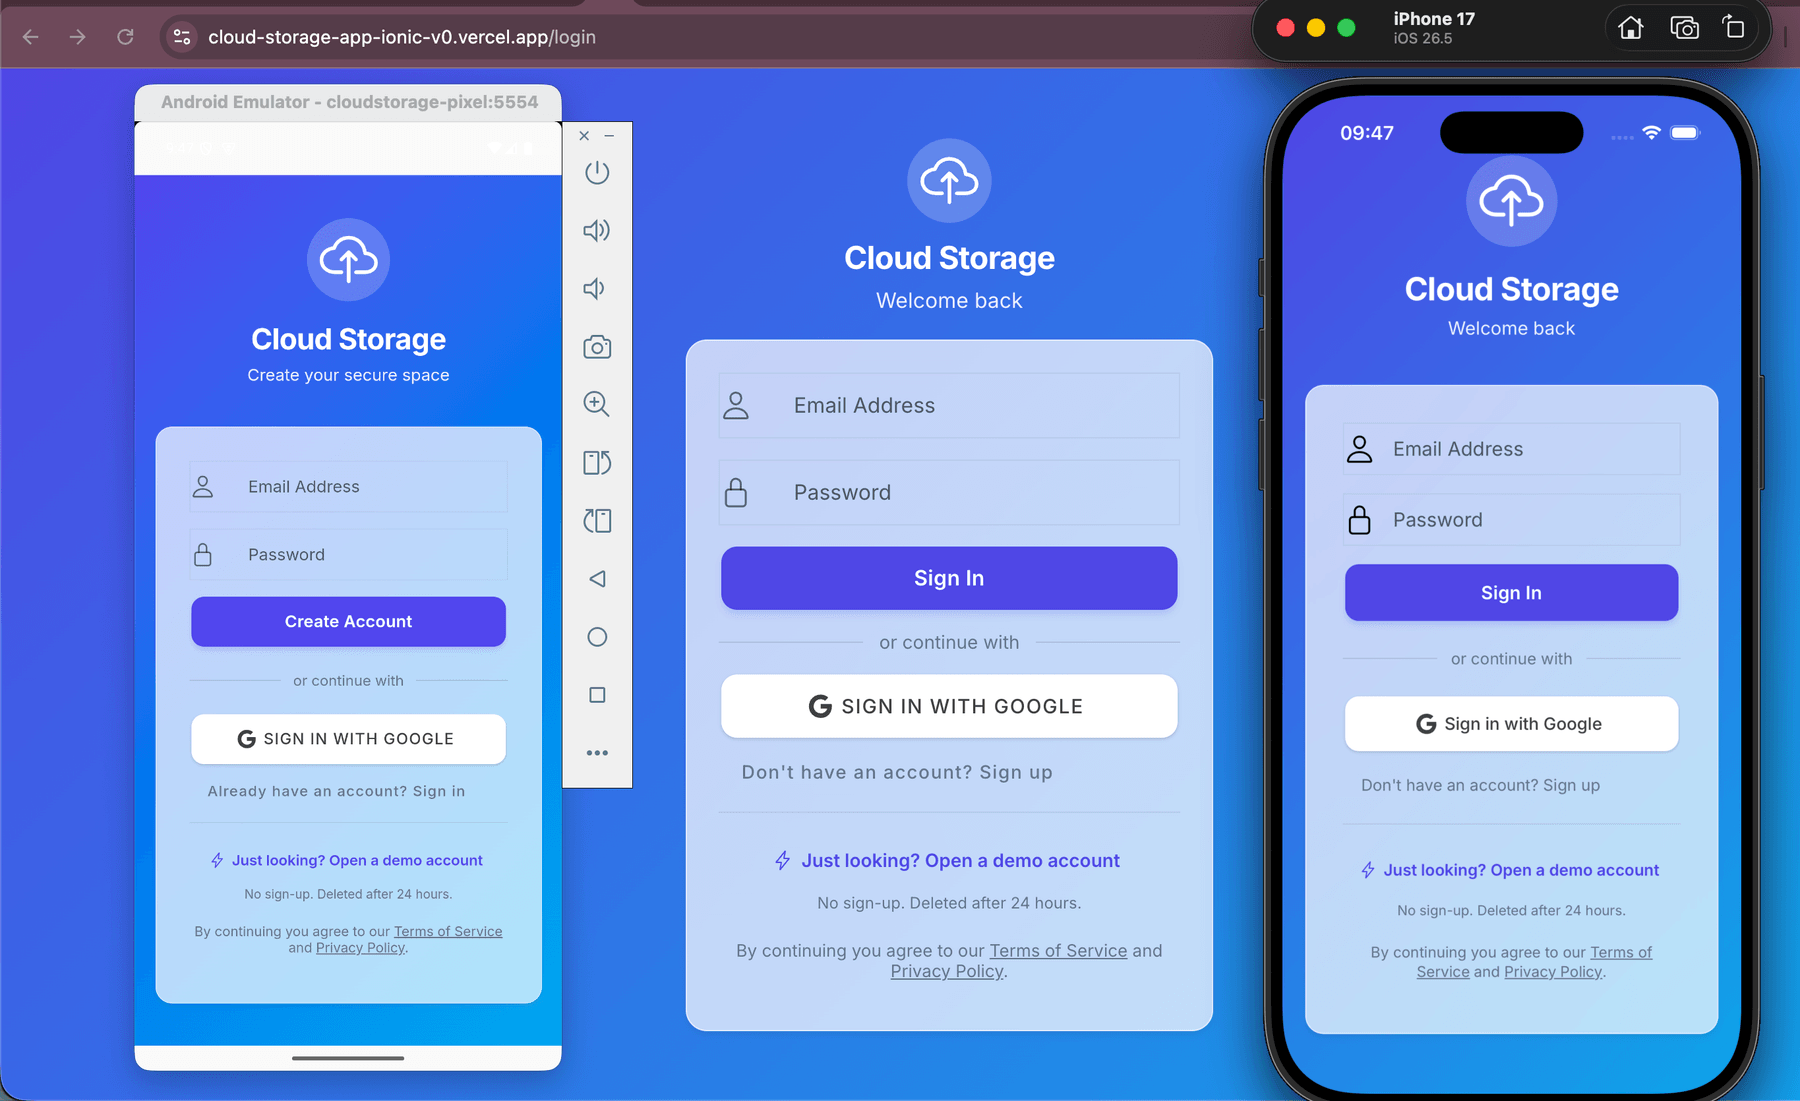
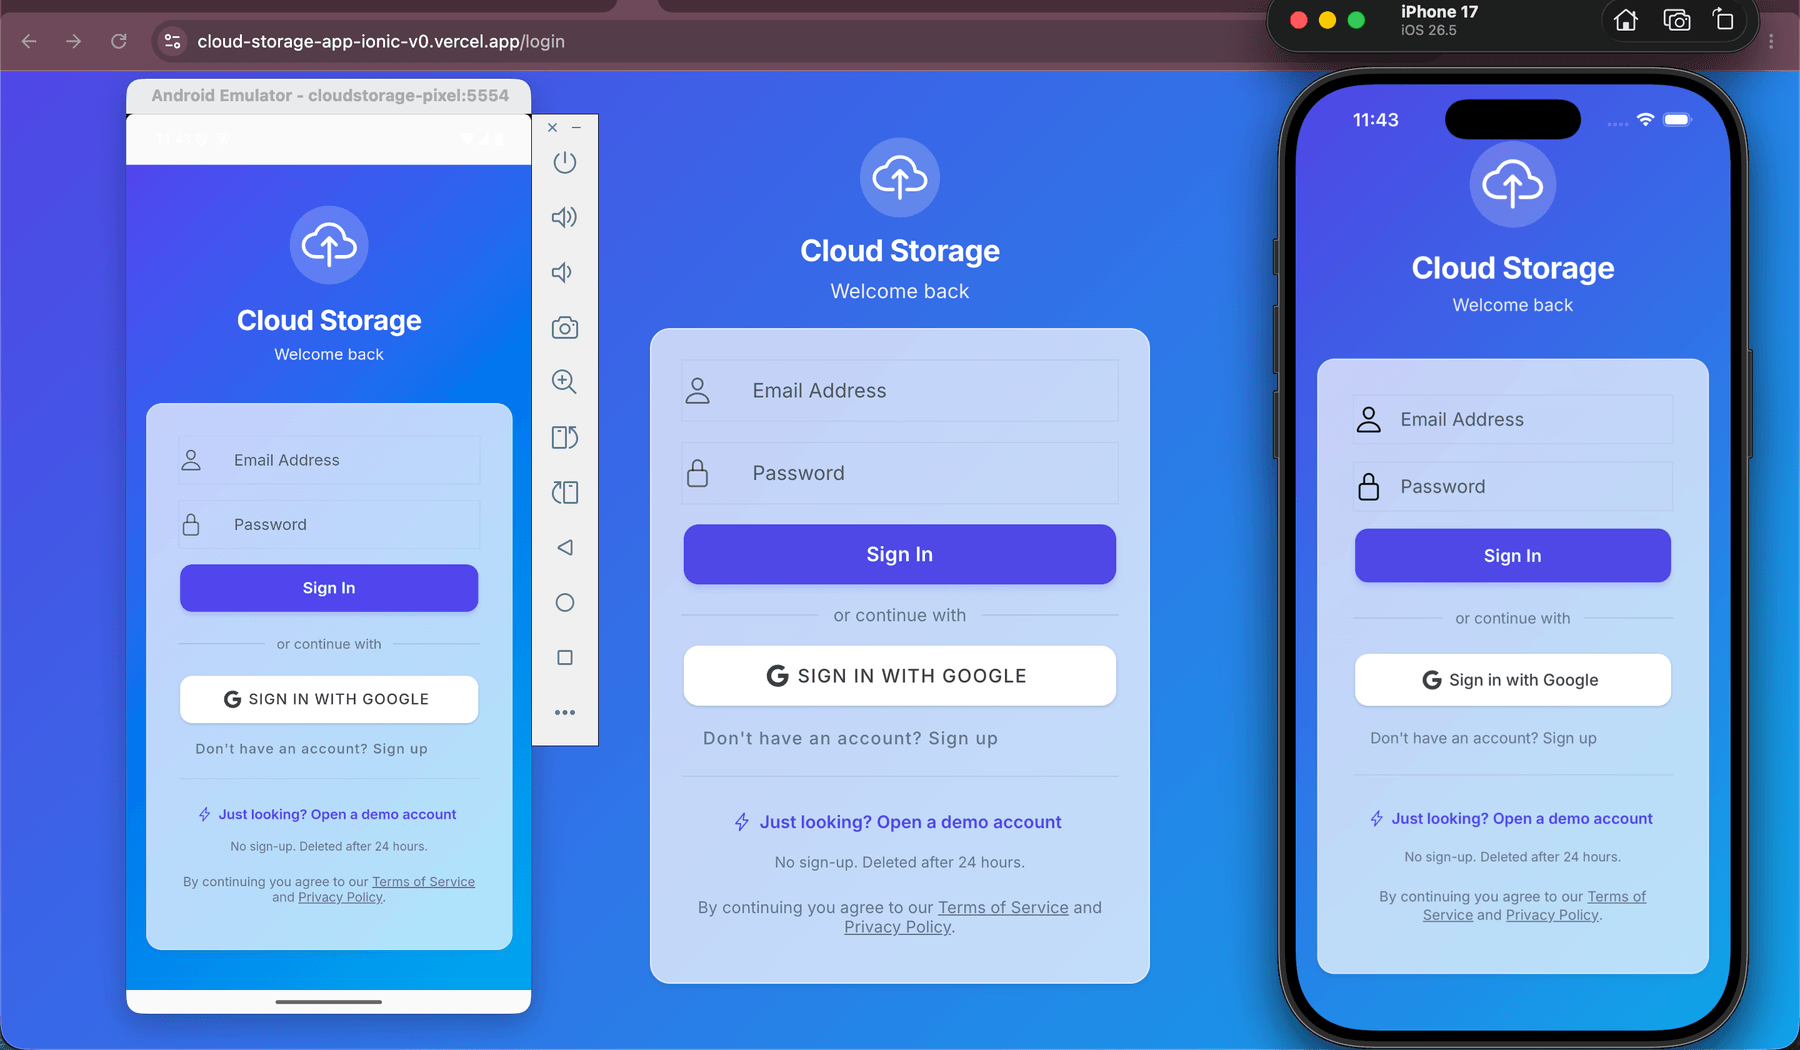
change image

Changed region(s): [[0.0, 0.0, 1.0, 1.0]]

diff --git a/README.md b/README.md
@@ -8,7 +8,7 @@
 [![Coverage — client](https://img.shields.io/endpoint?url=https%3A%2F%2Fraw.githubusercontent.com%2FAlexandr-Paleev%2FCloudStorageApp-Ionic%2Fbadges%2Fcoverage-client.json)](#what-the-tests-cover-and-what-they-deliberately-do-not)
 
 <p align="center">
-  <img src="docs/screenshots/three-platforms.png" alt="The same app running in three places at once: the web build in a browser at the production URL, a Pixel 7 Android emulator showing the sign-up card, and an iPhone 17 simulator showing the sign-in card" width="820"><br>
+  <img src="docs/screenshots/three-platforms.png" alt="The same app running in three places at once: the web build in a browser at the production URL, a Pixel 7 Android emulator and an iPhone 17 simulator, both showing the sign-in card" width="820"><br>
   <sub>One <code>npm run build</code>, three shells — the browser, a Pixel 7 emulator and an iPhone 17 simulator</sub>
 </p>
 
